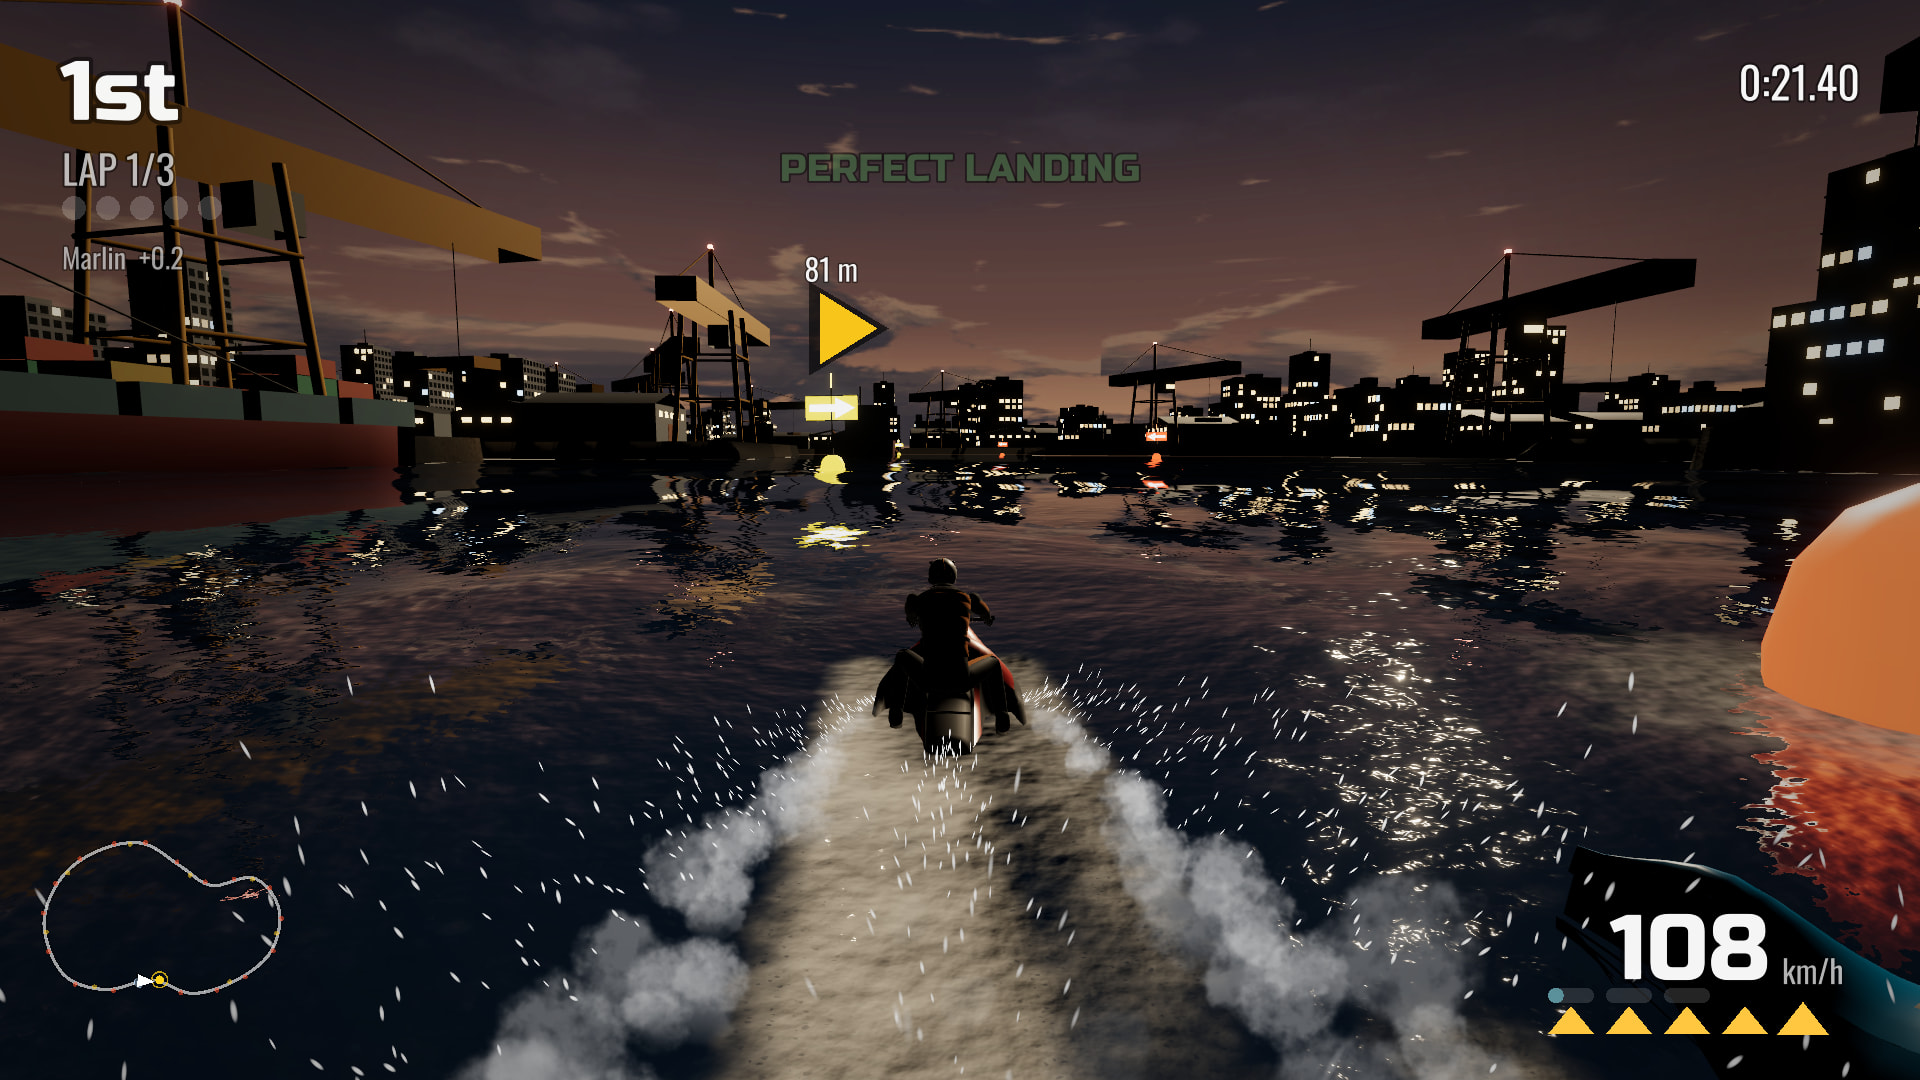
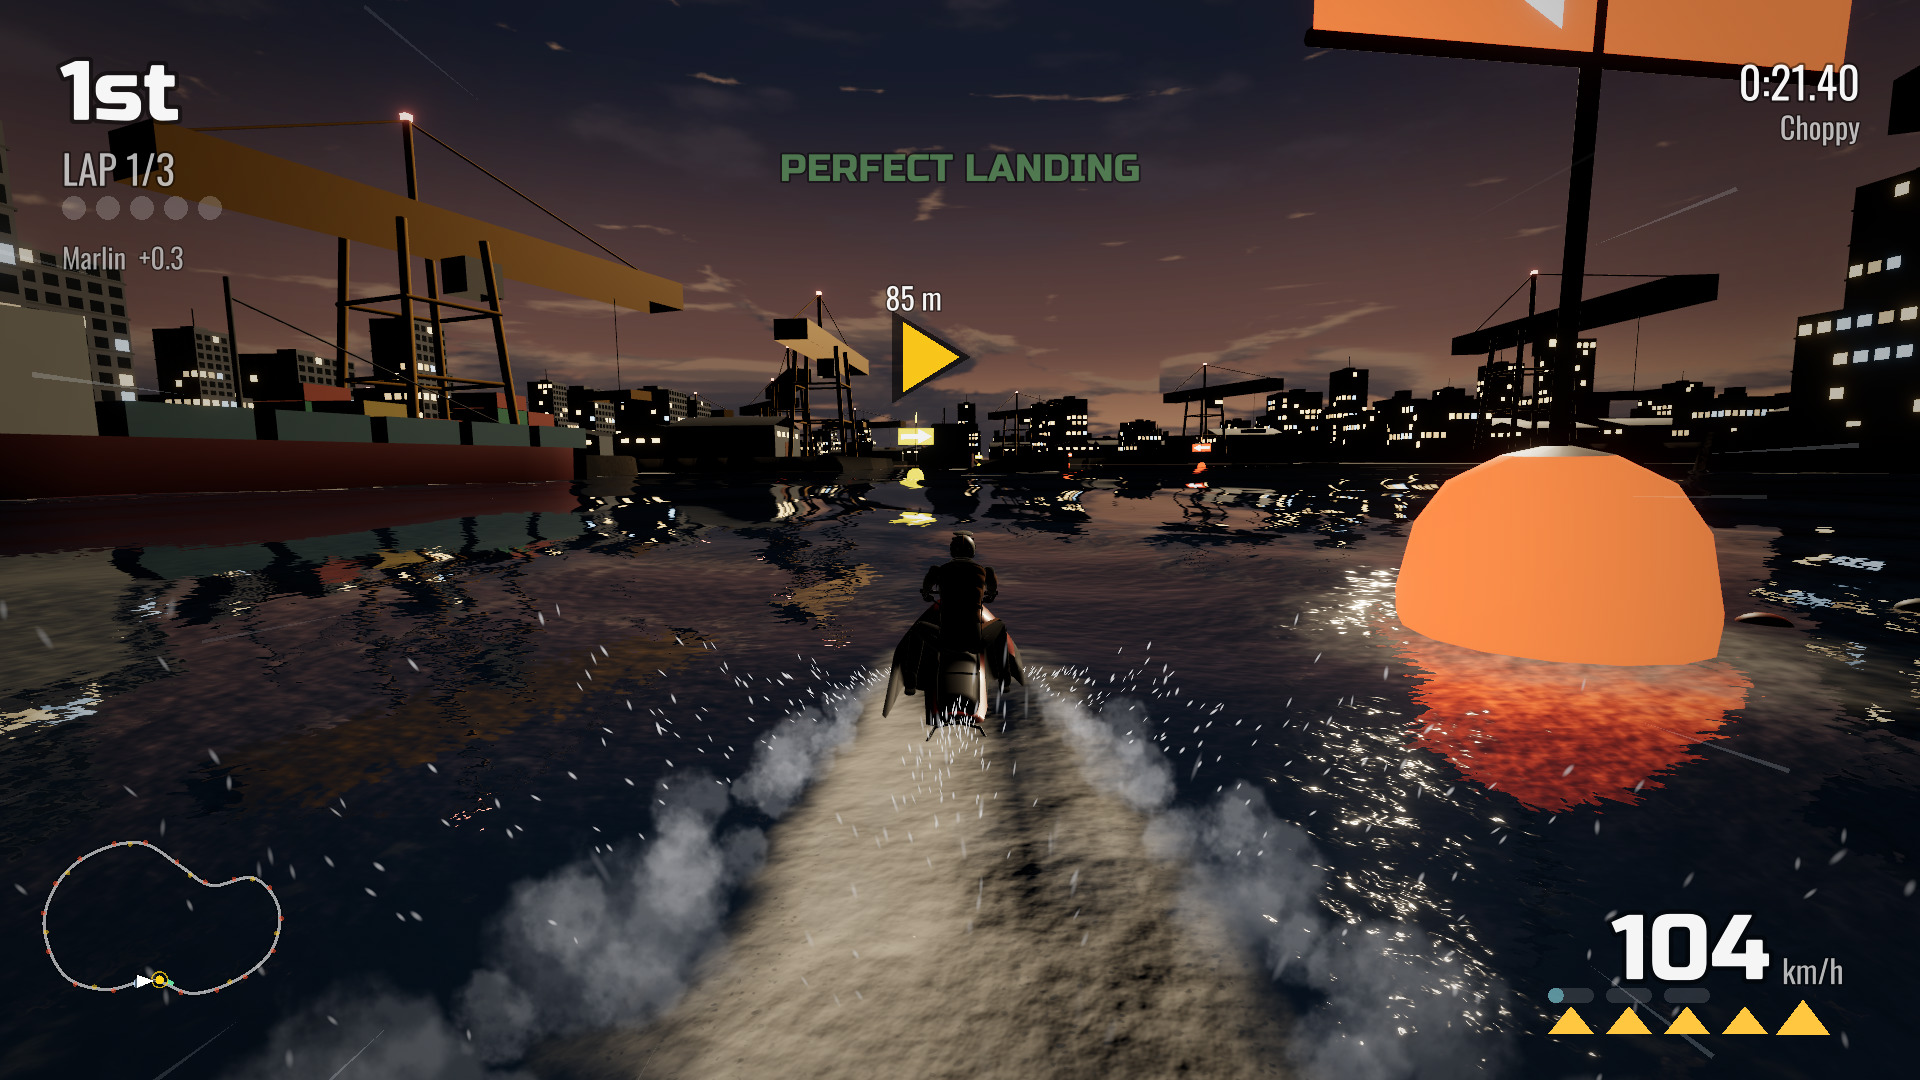
jetski: launcher art made by a script, from the cart with solid craft
cover.jpg and shot-1..5.jpg showed the craft from before 5f887d2, whose hull
panels faced inward and looked hollow. tools/make-art.mjs makes them again
through romdev from the built jetski_auto cart:

- the screenshots: a fresh race on each water, 0:21.40 into lap 1 with the
  HUD, 1920 x 1080; a race whose HUD place does not fit the label is run again;
- the cover: the atoll with the HUD off and the sea held big, the pack warped
  close together by the spire, the world held still with the buoys hidden, a
  held camera in front of the leader; rendered at 6400 x 3600 and the middle
  1200 x 1800 kept (a longer lens, nothing scaled), art/logo.png laid over it
  where the first cover had it (1176 x 301 at 4, 13).

Image work is plain JS: the engine's PNG reader, a Lanczos resample for the
logo, and tools/jpeg-encode.mjs, a baseline JPEG encoder (no dependencies).
--explore writes cover candidates; --live plays the first race on the romdev
livestream.

The warp debug command takes an optional gap and side (metres between racers
along the course and either side of it; 11 and 3 as before by default) so key
art can close the pack up.

diff --git a/games/jetski/src/main.c b/games/jetski/src/main.c
@@ -63,9 +63,15 @@ static void cmd_go(int argc, const char **argv, cw_reply *r) {
 }
 
 static void cmd_warp(int argc, const char **argv, cw_reply *r) {
-  /* warp <track metres>: every racer jumps there, for a look along the course */
+  /* warp <track metres> [gap] [side]: every racer jumps there, for a look along the course; gap and side (metres between
+   * racers along it, and either side of it) close the pack up for key art */
   if (argc < 2) { if (r) cw_reply_raw(r, "false"); return; }
+  extern float g_place_gap, g_place_side;
+  float gap = g_place_gap, side = g_place_side;
+  if (argc > 2) g_place_gap = (float)atof(argv[2]);
+  if (argc > 3) g_place_side = (float)atof(argv[3]);
   sim_place((float)atof(argv[1]));
+  g_place_gap = gap, g_place_side = side;
   if (r) cw_reply_raw(r, "true");
 }
 
@@ -628,7 +634,7 @@ static void init(void *user) {
   { extern float g_dome_seen[3]; cw_debug_f32_array("wx.dome", g_dome_seen, 3); cw_debug_f32_array("wx.dome_want", g_wx_dome, 3); }
   { extern int g_hud_lost, g_hud_waves, g_hud_quiet; cw_debug_i32("hud.lost", &g_hud_lost); cw_debug_i32("hud.waves", &g_hud_waves); cw_debug_i32("hud.quiet", &g_hud_quiet); }
   cw_debug_command("finish", "finish: the human crosses the line now", cmd_finish);
-  cw_debug_command("warp", "warp <metres>: every racer to that place on the course", cmd_warp);
+  cw_debug_command("warp", "warp <metres> [gap] [side]: every racer to that place on the course (gap, side: how close)", cmd_warp);
 }
 
 /* a text trace for the sim's CPU tests (tools/sim-check.mjs) */

diff --git a/games/jetski/src/sim.c b/games/jetski/src/sim.c
@@ -1037,19 +1037,20 @@ void sim_ram_setup(int kind) {
 }
 
 /* every racer to a place on the course, at speed */
+float g_place_gap = 11.0f, g_place_side = 3.0f; /* debug (warp): metres between racers along the course, and either side of it */
 void sim_place(float s) {
   for (int i = 0; i < RACERS; i++) {
     craft *c = &G.c[i];
-    float x, z, dx, dz;
-    track_at(s - (float)(i * 11), &x, &z, &dx, &dz);
-    c->x = c->px = x + dz * (i % 2 ? 3.0f : -3.0f);
-    c->z = c->pz = z - dx * (i % 2 ? 3.0f : -3.0f);
+    float x, z, dx, dz, side = i % 2 ? g_place_side : -g_place_side;
+    track_at(s - (float)i * g_place_gap, &x, &z, &dx, &dz);
+    c->x = c->px = x + dz * side;
+    c->z = c->pz = z - dx * side;
     c->y = c->py = cw_water_height_at(G.water, c->x, c->z, cw_water_time(G.water));
     c->yaw = c->pyaw = cw_atan2(dx, dz);
     c->vx = dx * 22, c->vz = dz * 22, c->vy = 0;
     c->track_i = (int)(s / COURSE_LEN * (float)TRACK_N) % TRACK_N;
     if (c->track_i < 0) c->track_i += TRACK_N;
-    for (int b = 0; b < BUOY_N; b++) if (buoy_on(b) && BUOYS[b][3] > s - (float)(i * 11)) { c->next_buoy = b; break; }
+    for (int b = 0; b < BUOY_N; b++) if (buoy_on(b) && BUOYS[b][3] > s - (float)i * g_place_gap) { c->next_buoy = b; break; }
     c->lap = 0;
   }
   G.cam[0] = 0, G.look[0] = 0;
